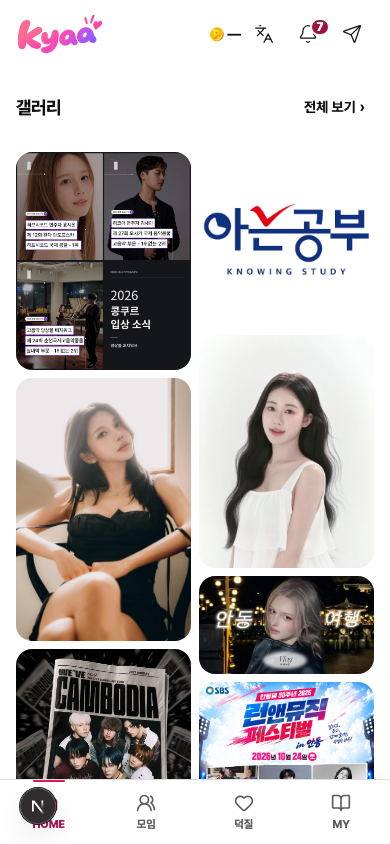
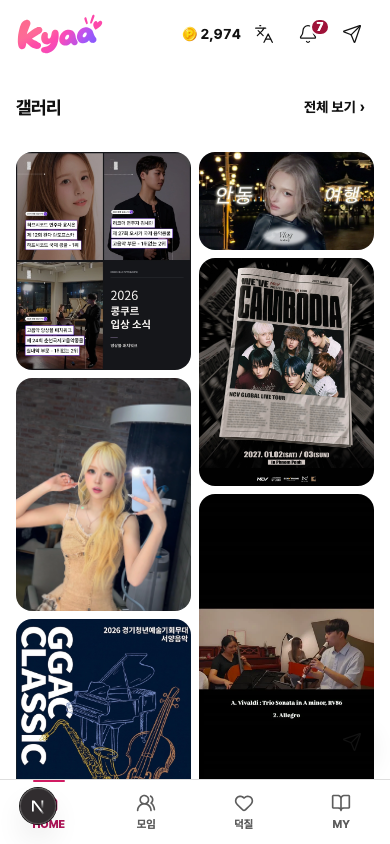
Show only photos with original posts in the home gallery

diff --git a/apps/web/components/guest-home.tsx b/apps/web/components/guest-home.tsx
@@ -43,7 +43,7 @@ import { PromoBanner } from "@/components/banner-slot/promo-banner";
 import { ThinBanner } from "@/features/home/ui/home-thin-banner";
 import { HomeGallery, HomeGalleryPlaceholder, HomeNotices, HomeNoticesPlaceholder } from "@/features/home/ui/home-placeholder-blocks";
 import { ObservedLiveStrip } from "@/features/live/ui/observed-live-strip";
-import { diversifyGalleryPhotos } from "@/features/home/domain/home-gallery-order";
+import { homeGalleryPostPhotos } from "@/features/home/domain/home-gallery-order";
 import styles from "./guest-home.module.css";
 import { ElinaGuideCard } from "./home-entry-cards/home-entry-cards";
 
@@ -185,20 +185,18 @@ function StreamHomeNotices({ queries, locale }: Pick<StreamingHomeProps, "querie
 
 /** 정상 0건만 빈 상태 글을 보이고, 실패는 같은 자리표시를 글 없이 둔다(로딩도 같다). */
 function StreamHomeGallery({ queries, locale }: Pick<StreamingHomeProps, "queries" | "locale">) {
-  const photos = use(queries.homeGallery);
-  // Resolve dimensions only inside the gallery boundary. Until then its outer
-  // fallback uses the existing fixed reservation; Shorts cannot block the shell.
-  return <Suspense fallback={<HomeGalleryPlaceholder locale={locale} expectedPhotos={photos.status === "fulfilled" ? photos.value.items : undefined} state={photos.status === "fulfilled" ? "loading" : "error"} />}>
-    <StreamHomeGalleryContent queries={queries} locale={locale} photos={photos} />
+  const result = use(queries.homeGallery);
+  const posts = result.status === "fulfilled" ? homeGalleryPostPhotos(result.value.items) : [];
+  const photos = result.status === "fulfilled" ? posts.slice(0, 12) : "error";
+  const hasMore = result.status === "fulfilled" && (result.value.nextCursor !== null || posts.length > 12);
+  return <Suspense fallback={<HomeGalleryPlaceholder locale={locale} expectedPhotos={photos === "error" ? undefined : photos} state={photos === "error" ? "error" : "loading"} />}>
+    <StreamHomeGalleryContent queries={queries} locale={locale} photos={photos} hasMore={hasMore} />
   </Suspense>;
 }
 
-const HOME_GALLERY_PHOTOS = 12;
-function StreamHomeGalleryContent({ queries, locale, photos }: Pick<StreamingHomeProps, "queries" | "locale"> & { photos: Awaited<HomeQueries["homeGallery"]> }) {
+function StreamHomeGalleryContent({ queries, locale, photos, hasMore }: Pick<StreamingHomeProps, "queries" | "locale"> & Pick<Parameters<typeof HomeGallery>[0], "photos" | "hasMore">) {
   const shorts = use(queries.homeShorts);
-  // The read brings the newest 72; the block shows the 12 most varied (one per post, creators in turn).
-  const varied = photos.status === "fulfilled" ? diversifyGalleryPhotos(photos.value.items) : [];
-  return <HomeGallery locale={locale} photos={photos.status === "fulfilled" ? varied.slice(0, HOME_GALLERY_PHOTOS) : "error"} hasMore={photos.status === "fulfilled" && (photos.value.nextCursor !== null || varied.length > HOME_GALLERY_PHOTOS)}
+  return <HomeGallery locale={locale} photos={photos} hasMore={hasMore}
     shorts={shorts.status === "fulfilled" ? shorts.value : "error"} />;
 }
 

diff --git a/apps/web/components/guest-home.test.tsx b/apps/web/components/guest-home.test.tsx
@@ -500,10 +500,10 @@ describe("streamed Home sections", () => {
     expect(view.container.querySelector(`[data-managed-home-banner="${bannerFixture.id}"]`)).not.toBeNull();
     expect(view.container.querySelector('[data-gallery-layout]')).toBeNull();
     await act(async () => { gallery.resolve({ items: photos as never, nextCursor: null }); });
-    expect(view.container.querySelectorAll('[data-gallery-reservation="mobile"] li')).toHaveLength(photos.length);
+    expect(view.container.querySelectorAll('[data-gallery-reservation="mobile"] li')).toHaveLength(photos.filter(photo => photo.source === "official_sns").length);
     await act(async () => { shorts.resolve([]); });
     expect(view.container.querySelector('[data-gallery-reservation]')).toBeNull();
-    expect(view.container.querySelectorAll('[data-gallery-layout="mobile"] [data-row="photo"]')).toHaveLength(photos.length);
+    expect(view.container.querySelectorAll('[data-gallery-layout="mobile"] [data-row="photo"]')).toHaveLength(photos.filter(photo => photo.source === "official_sns").length);
   });
 
   it("puts the read gallery photos and LIVE videos on the home; a failed read keeps placeholders without the empty text, zero rows show it", async () => {
@@ -512,7 +512,7 @@ describe("streamed Home sections", () => {
     const home = pendingHome();
     let view!: ReturnType<typeof render>;
     await act(async () => { view = render(<StreamingGuestHome queries={{ ...home.queries, homeBanners: settleHomeQuery(Promise.resolve([])), homeGallery: Promise.resolve({ status: "fulfilled", value: { items: photos as never, nextCursor: null } }), homeShorts: Promise.resolve({ status: "fulfilled", value: shorts as never }) }} locale="ko" />); });
-    expect(view.container.querySelectorAll('[data-gallery-layout="mobile"] [data-row="photo"]')).toHaveLength(photos.length);
+    expect(view.container.querySelectorAll('[data-gallery-layout="mobile"] [data-row="photo"]')).toHaveLength(photos.filter(photo => photo.source === "official_sns").length);
     expect(view.container.querySelectorAll('[data-row="short"]')).toHaveLength(shorts.length);
     view.unmount();
     await act(async () => { view = render(<StreamingGuestHome queries={{ ...pendingHome().queries, homeBanners: settleHomeQuery(Promise.resolve([])), homeGallery: Promise.resolve({ status: "rejected" }), homeShorts: Promise.resolve({ status: "rejected" }) }} locale="ko" />); });

diff --git a/apps/web/features/home/domain/home-gallery-order.test.ts b/apps/web/features/home/domain/home-gallery-order.test.ts
@@ -1,9 +1,19 @@
 import { describe, expect, it } from "vitest";
 import type { HomeGalleryPhoto } from "./home-gallery";
-import { diversifyGalleryPhotos, diversifyShorts } from "./home-gallery-order";
+import { diversifyGalleryPhotos, diversifyShorts, homeGalleryPostPhotos } from "./home-gallery-order";
 
 const photo = (id: string, slug?: string): HomeGalleryPhoto => ({ id, source: "official_sns", image: { url: "https://example.com/a.jpg", width: 4, height: 5 }, alt: id, ...(slug ? { creator: { slug, name: slug } } : {}) });
 const ids = (list: readonly HomeGalleryPhoto[]) => list.map(item => item.id);
+
+it("selects only original notice photos for the home gallery", () => {
+  const post = { ...photo("notice:1", "creator"), sourceHref: "/c/creator/notices/post" };
+  expect(homeGalleryPostPhotos([
+    { ...post, source: "cms_upload" },
+    { ...post, sourceHref: "/live/event" },
+    photo("missing-link", "creator"),
+    post,
+  ])).toEqual([post]);
+});
 
 describe("diversifyGalleryPhotos", () => {
   it("takes one photo per post first and puts the other cuts after everything else", () => {

diff --git a/apps/web/features/home/ui/home-placeholder-blocks.tsx b/apps/web/features/home/ui/home-placeholder-blocks.tsx
@@ -102,8 +102,7 @@ export function GalleryImage({ photo, sizes }: { photo: HomeGalleryPhoto; sizes:
   const unoptimized = photo.image.url.startsWith("/api/content-assets/") || bypassImageOptimization(photo.image.url);
   const image = <Image className={styles.photoImage} src={photo.image.url} alt={photo.alt} width={photo.image.width} height={photo.image.height}
     sizes={sizes} loading="lazy" unoptimized={unoptimized} />;
-  const href = photo.sourceHref ?? (photo.creator ? `/c/${encodeURIComponent(photo.creator.slug)}` : undefined);
-  return href ? <Link className={styles.photoLink} href={href as Route}>{image}</Link> : image;
+  return photo.sourceHref ? <Link className={styles.photoLink} href={photo.sourceHref as Route}>{image}</Link> : image;
 }
 
 /** Same allocation, responsive column widths and per-image ratios as the loaded gallery. */

diff --git a/apps/web/features/home/ui/home-gallery.test.tsx b/apps/web/features/home/ui/home-gallery.test.tsx
@@ -118,10 +118,7 @@ describe("home gallery block", () => {
     expect(official).toHaveAttribute("width", "1080");
     expect(official).toHaveAttribute("height", "1350");
     expect(official.closest("a")).toHaveAttribute("href", "/c/r8data-photo/notices/r8-ok1");
-    for (const tile of container.querySelectorAll("[data-gallery-layout] img")) {
-      const photo = photos.find(item => item.alt === tile.getAttribute("alt"))!;
-      expect(tile.closest("a")).toHaveAttribute("href", photo.sourceHref ?? `/c/${photo.creator!.slug}`);
-    }
+    expect(screen.getAllByRole("img", { name: "R8 사진 무대 사진" })[0]!.closest("a")).toBeNull();
     expect(screen.queryByText("아직 사진 없음")).not.toBeInTheDocument();
     expect(screen.queryByRole("link", { name: /전체 보기/ })).not.toBeInTheDocument();
   });

diff --git a/apps/web/features/home/domain/home-gallery-order.ts b/apps/web/features/home/domain/home-gallery-order.ts
@@ -1,5 +1,12 @@
 import type { HomeGalleryPhoto } from "./home-gallery";
 
+/** Only original posts belong in the home photo selection. Filter before ranking and taking the first twelve. */
+export function homeGalleryPostPhotos(photos: readonly HomeGalleryPhoto[]) {
+  return diversifyGalleryPhotos(photos.filter(photo =>
+    photo.source === "official_sns" && /^\/c\/[a-z0-9-]+\/notices\/[a-z0-9-]+$/.test(photo.sourceHref ?? "")
+  ));
+}
+
 /**
  * The order the home gallery shows (사용자 2026-11-11 08:30 "갤러리 최대한 셀럽의 다양한 이미지"): newest first only decides the order *inside* one creator.
  * 0. 사용자 2026-11-15 19:0x: the first row holds each FEATURED_GALLERY_CREATORS creator's newest photo (a creator with none is skipped), then the rules below.

diff --git a/DESIGN.md b/DESIGN.md
@@ -2621,6 +2621,7 @@ At the user's request, registered Changha identity and hero images use the unedi
 
 ### 미디어 표시 (2026-11-10 S6, 사용자 PC QA #13·#15)
 
+- 홈 갤러리는 원래 게시물로 이동할 수 있는 공식 SNS 사진만 고른다. CMS 크리에이터 대표 사진과 공연 이미지는 홈에서 제외한다.
 - 갤러리(홈 갤러리와 `/gallery`)는 같은 `allocateGalleryColumns`로 열을 정한다. 사진은 원본 비율 그대로이고 열 바닥을 맞춘 뒤, 각 열 안에서 이웃 사진이 같은 크기 그룹(목록 비율의 3분위수)이 되지 않게 섞는다. 열의 맨 위 사진(순위가 가장 높은 사진)은 고정이고 같은 그룹끼리는 순위 순서를 지킨다. 근거 `board/research/media-layout.md`.
 - 칸을 `contain`으로 통째로 채워야 하는 이미지·영상은 남는 여백을 그 이미지의 흐린 복사본으로 채운다. 공통 소유자는 `components/fan-ui/media-fill.tsx`(`MediaFill`, `mediaFillClass`, `MediaBackdrop`)다. 뒷면은 `alt=""`·`aria-hidden`이며 사진 자체는 자르지 않는다. 적용: 모임 격자 로고·배너 칸, 홈 쇼츠 표지, 이벤트 목록 그림. 승인 크롭·상품 배경·패스포트 장식에는 쓰지 않는다.
 - 2026-11-10 S3 덕질·출석 UI(사용자 PC QA #17·#18): "내 페이지 출석 현황" 모달은 행 목록 대신 원형 아바타 격자(`attendance-avatars.tsx`)다. 2026-11-10 22:48 사용자 "gap을 줄여 주기"로 열 72 고정·간격 16/8·아바타와 `연속 N일`·버튼 사이 4로 줄였다(390에서 한 줄 4개, 앞 기록의 열 최소 96·간격 24/16은 폐기). 아바타 68(링 3 + 안쪽 4 + 이미지 54), 오늘 출석한 페이지만 초록 링과 오른쪽 아래 24 체크 배지, 이름은 마우스 호버·포커스(`FanTooltip`) 또는 터치 450ms 길게 누름(`FanTooltip longPress`, 1.8초 표시)에서만 보이고 스크린리더는 `role="img"`의 이름과 숨은 "오늘 완료"로 읽는다. 아바타 아래 `연속 N일` 13 muted, 오늘 출석을 못 한 페이지에만 `출석하기`(입국 심사 전이면 `입국 심사`) 버튼. 초록은 사용자가 참고 화면으로 지정한 출석 링·체크에만 쓰며 폐기 예정 표의 `--color-success`(#17613f) 값을 그대로 쓴다(새 값 없음). 같은 작업에서 `wallet.module.css .supportBackdrop`에 `justify-content:center`를 더했다: 공통 오버레이의 `display:flex`가 `display:grid`를 이기는 순서에서 모달이 왼쪽 끝에 붙던 것을 막는다. 확인: 로컬 dev(3002) 합성 계정 390·1440, 프로덕션 빌드는 이 환경에서 `ffprobe` 없음으로 못 돌림.
